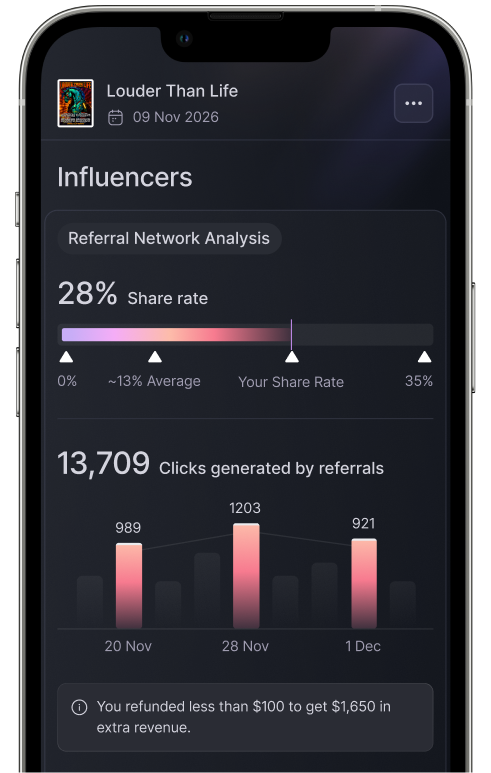
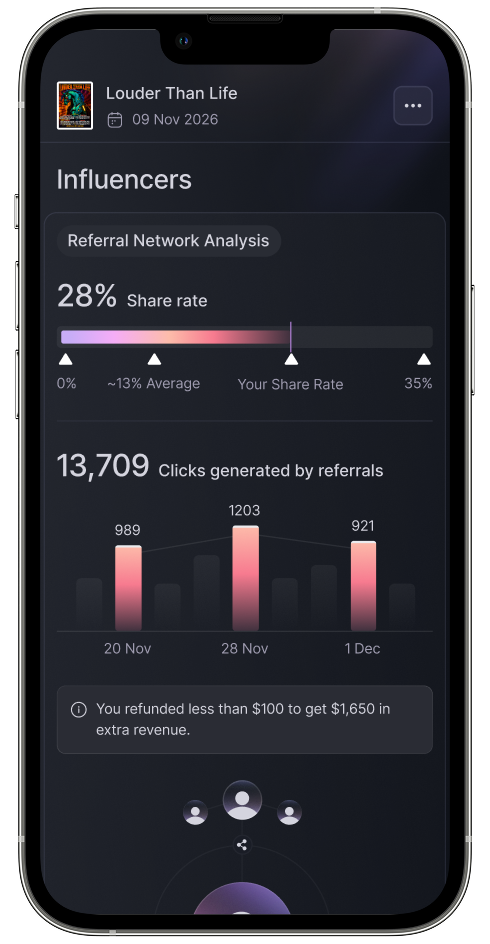
fix: hero text fix, new images

diff --git a/src/styles/projects.css b/src/styles/projects.css
@@ -357,34 +357,26 @@
   display: flex;
   justify-content: center;
   gap: 16px;
+  margin-left: 10%;
+  margin-right: 10%;
   align-items: flex-start;
 }
 
-/* Center iPhone is the main/biggest image */
-.tf-mobile-main {
-  flex: 0 0 33%;
-  overflow: hidden;
-  border-radius: 8px 8px 0 0;
-}
-
-/* Side mobile images are smaller */
-.tf-mobile-side {
-  flex: 0 0 28%;
-  overflow: hidden;
-  border-radius: 8px 8px 0 0;
-}
-
-/* WT mobile frames are all equal width */
+/* All mobile frames (TF and WT) are equal width and height */
+.tf-mobile-frame,
 .wt-mobile-frame {
   flex: 0 0 calc((100% - 32px) / 3);
   overflow: hidden;
   border-radius: 8px 8px 0 0;
+  aspect-ratio: 3 / 4.5;
 }
 
 .tf-mobile-frame img,
 .wt-mobile-frame img {
   width: 100%;
-  height: auto;
+  height: 100%;
+  object-fit: cover;
+  object-position: top center;
   display: block;
 }
 

diff --git a/src/styles/hero.css b/src/styles/hero.css
@@ -26,7 +26,7 @@
   justify-self: end;
   text-align: left;
   align-items: flex-start;
-  margin-top: 4em;
+  margin-top: 5em;
   /* Align "into something" horizontally with "and fintech products" */
 }
 
@@ -141,6 +141,7 @@
     font-size: clamp(38px, 4vw, 50px);
     letter-spacing: -1px;
   }
+
   .profile-container {
     width: clamp(144px, calc(144px + 96 * (100vw - 1280px) / 119), 240px);
     height: clamp(144px, calc(144px + 96 * (100vw - 1280px) / 119), 240px);